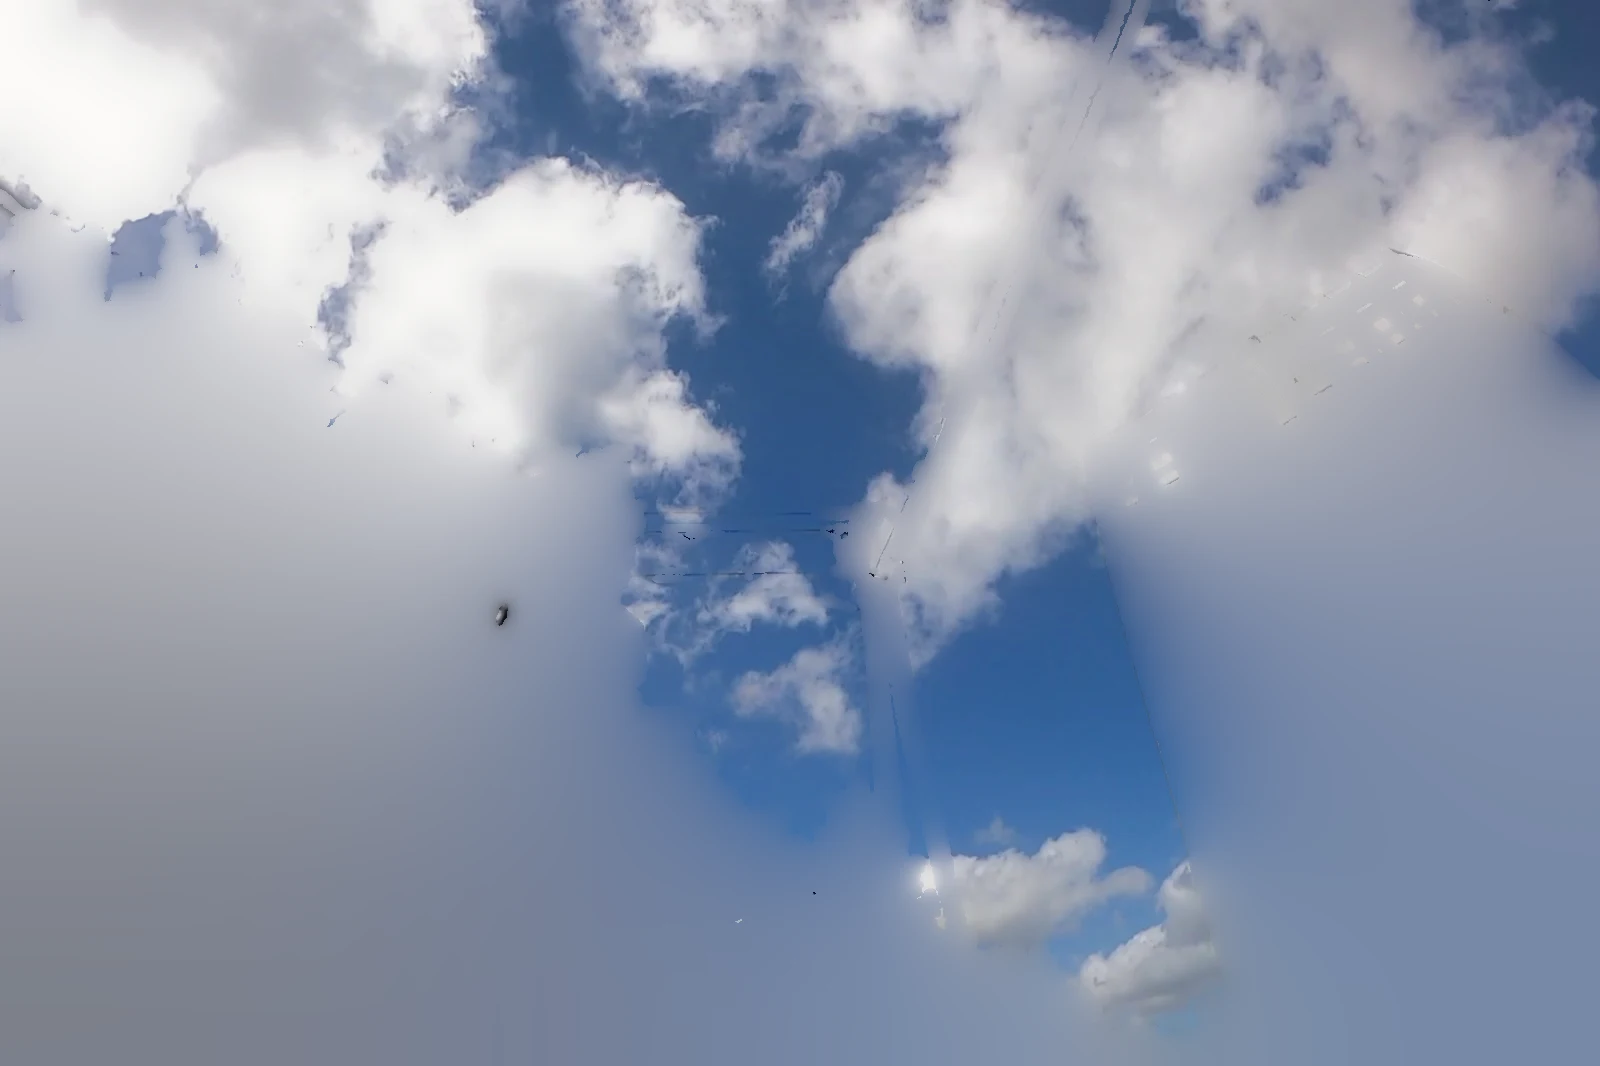
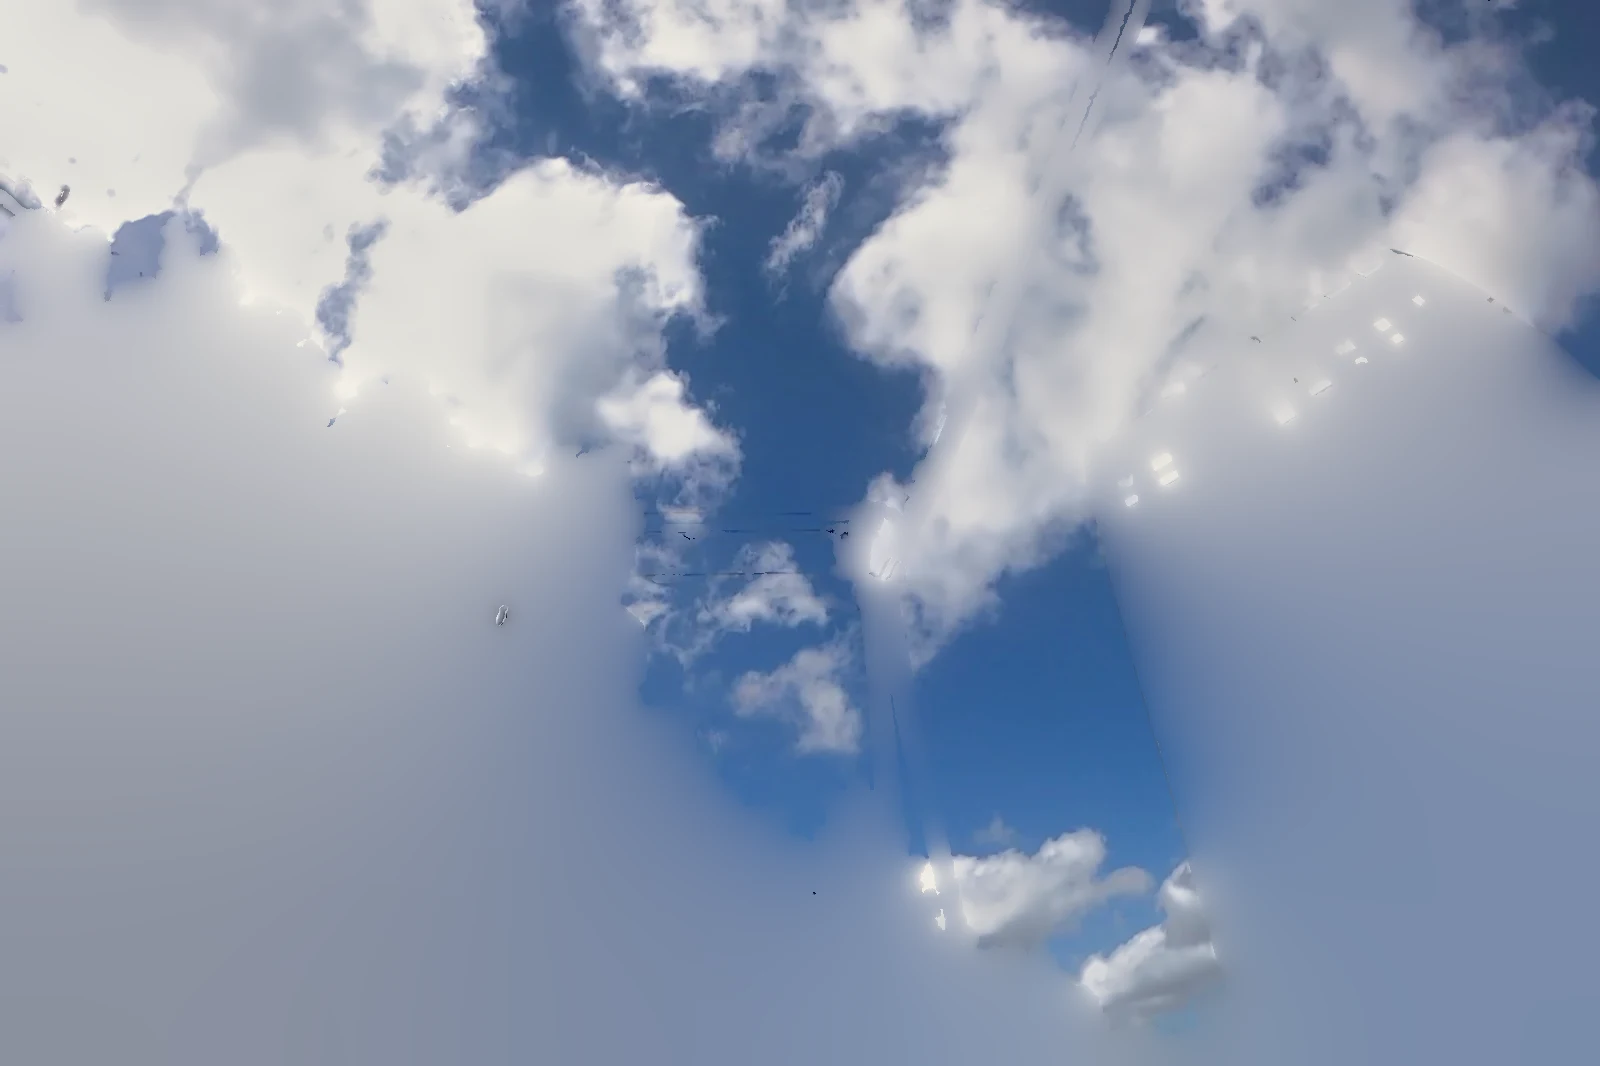
Lab: climb moment round 1
Claude-Session: https://claude.ai/code/session_01RqENhngNCzDFmJWDZueXGV

diff --git a/src/app/lab/moment/momentEngine.js b/src/app/lab/moment/momentEngine.js
@@ -334,6 +334,10 @@ void main() {
   vec3 core = vec3(1.006, 1.0, 0.978);    // sunlit top, ~(241, 240, 236)
   vec3 tint = mix(shade, body, smoothstep(0.66, 0.82, yo));
   tint = mix(tint, core, smoothstep(0.84, 0.94, yo));
+  // the sky layer carries its own split tone from the bake (warm tops,
+  // skylit undersides): most of the hue is its, the tiers only steady it
+  vec3 baked = sky / max(dot(sky, LUMA), 1e-3);
+  tint = mix(tint, baked, 0.6);
   // a little of the cloud's own colour survives, so the folds keep their drawing
   vec3 own = (col - y0) * (yo / max(y0, 1e-3));
   vec3 graded = yo * tint + own * mix(0.2, 0.15, smoothstep(0.6, 0.85, yo));

diff --git a/tools/depth/bakes/moment/sky.py b/tools/depth/bakes/moment/sky.py
@@ -1,0 +1,215 @@
+"""Moment, step 3b: the sky layer, re-baked from the clip's own frames.
+
+    python3 -I sky.py <frames dir> <work dir> <public/lab/moment>
+
+Replaces the sky layer export.py wrote (sky.webp only; every other layer is
+left as it is). The first bake took the sky from the one clean plate and
+gave each clipped cloud core a soft dome; at the page the domes read as flat
+grey-cream smears, and the birds Telea had painted out and the wires' ghosts
+showed through them as dark-blue flecks. This one goes back to the source:
+
+1. Highlight recovery. Frames 0-112 (after that he lands on the lens and the
+   GoPro's exposure moves), registered to the middle shutter frame by phase
+   correlation on the hotel facade, as plate.py does. A frame may lend a
+   pixel unless something dark passes in front of it there (him, a bird):
+   darker than 0.8 of that pixel's 85th-percentile brightness over the clip,
+   grown 4 px. Of what is left, each pixel is taken from its least-clipped
+   frames: every frame is weighted by how far its hottest channel stays
+   under 255, so where the drifting cloud let one frame see into a core
+   that frame alone speaks, and elsewhere the frames average (which also
+   takes the GoPro's noise and block edges out of the cloud), nearest the
+   shutter frames first. Exposure is locked for the whole span (the facade
+   and the open sky agree to 0.5 %), so the frames merge as they are. About
+   5 % of the sky is at 255 in every frame; those cores stay at the clip,
+   and only the shoulder below shapes them.
+
+2. Despeckle, limited to the cloud: anything darker than its 9 px median by
+   more than the noise (a bird's last trace, a wire's ghost, a JPEG block)
+   takes the median, and a guided filter on the cloud's own luminance
+   smooths the 8-bit steps the shoulder would otherwise stretch.
+
+3. Local contrast and a filmic shoulder, on the cloud only: the cloud's log
+   luminance against a ~28 px gaussian of itself (amount 0.45) puts the
+   cauliflower relief back; then a shoulder that keeps the body (linear up
+   to 0.42) and rolls everything above it off towards a warm-neutral white
+   (R >= G >= B, about 248/245/238), never pure white, so the cores glow
+   and keep their edge instead of plateauing.
+
+4. Split tone by luminance inside the cloud: the sunlit tops lean warm
+   white, the shaded undersides take the sky's own blue (hue ~205 deg,
+   desaturated, as skylight fills them), the body neutral between.
+
+5. The blue sky as export.py had it: a third of a stop down (the page
+   brings it back), deepened towards the zenith, a touch of cyan. Then the
+   sky is pushed in under everything that is not sky (push-pull), as
+   before. The sky matte is the near layer's own alpha (near.webp), so the
+   two layers still meet where they met.
+"""
+import os, shutil, sys
+import numpy as np
+import cv2
+
+sys.path.insert(0, os.path.join(os.path.dirname(os.path.abspath(__file__)), "..", ".."))
+import kit  # noqa: E402
+
+FRAMES, WORK, OUT = sys.argv[1:4]
+os.makedirs(WORK, exist_ok=True)
+CROP_H = 1066
+MID = 84
+IDS = list(range(0, 113))
+GAIN = 0.79  # a third of a stop down, in linear light (as export.py)
+LUMA = np.float32([0.2126, 0.7152, 0.0722])
+
+
+def lin(c):
+    return np.where(c <= 0.04045, c / 12.92, ((c + 0.055) / 1.055) ** 2.4).astype(np.float32)
+
+
+def enc(c):
+    c = np.clip(c, 0, 1)
+    return np.where(c <= 0.0031308, c * 12.92, 1.055 * c ** (1 / 2.4) - 0.055).astype(np.float32)
+
+
+LUT = lin(np.arange(256, dtype=np.float32) / 255)
+
+# ---------------------------------------------------------------- 1. merge
+cache = f"{WORK}/sky_merge.npz"
+if os.path.exists(cache):
+    z = np.load(cache)
+    hdr, hot = z["hdr"], z["hot"]
+else:
+    ref = cv2.imread(f"{FRAMES}/f{MID:03d}.jpg").astype(np.float32).mean(2)
+    x0, x1, y0, y1 = 1000, 1560, 300, 900
+    win = cv2.createHanningWindow((x1 - x0, y1 - y0), cv2.CV_32F)
+    stack = np.empty((len(IDS), CROP_H, 1600, 3), np.uint8)
+    for i, n in enumerate(IDS):
+        im = cv2.imread(f"{FRAMES}/f{n:03d}.jpg")
+        (dx, dy), _ = cv2.phaseCorrelate(ref[y0:y1, x0:x1], im.astype(np.float32).mean(2)[y0:y1, x0:x1], win)
+        im = cv2.warpAffine(im, np.float32([[1, 0, -dx], [0, 1, -dy]]), (im.shape[1], im.shape[0]), flags=cv2.INTER_LANCZOS4, borderMode=cv2.BORDER_REFLECT)
+        stack[i] = im[:CROP_H, :, ::-1]
+    tw = np.exp(-0.5 * ((np.float32(IDS) - MID) / 30.0) ** 2).astype(np.float32)
+    hdr = np.zeros((CROP_H, 1600, 3), np.float32)
+    hot = np.zeros((CROP_H, 1600), np.float32)
+    grow = kit.disk(4)
+    R = 82
+    for r0 in range(0, CROP_H, R):
+        s = stack[:, r0 : r0 + R]
+        L = s.astype(np.float32) @ LUMA
+        ref85 = np.percentile(L, 85, axis=0)
+        occ = L < 0.8 * ref85[None] - 12  # the -12: noise in the dark (leaves, windows) is no occluder
+        valid = np.stack([~cv2.dilate(o.astype(np.uint8), grow).astype(bool) for o in occ]).astype(np.float32)
+        mx = s.max(3).astype(np.float32) / 255
+        un = 1 - kit.smoothstep(0.9, 0.985, mx)  # how far its hottest channel stays under the clip
+        w = valid * tw[:, None, None]
+        wu = w * (un**2 + 1e-4)
+        rgb = LUT[s]
+        m = (wu[..., None] * rgb).sum(0) / np.maximum(wu.sum(0), 1e-8)[..., None]
+        # share of the frames that could see this pixel which were clipped there
+        h = 1 - (w * un).sum(0) / np.maximum(w.sum(0), 1e-6)
+        none = w.sum(0) < 1e-3  # no frame clear of him: the middle frame
+        hdr[r0 : r0 + R] = np.where(none[..., None], rgb[IDS.index(MID)], m)
+        hot[r0 : r0 + R] = np.where(none, (mx[IDS.index(MID)] > 0.985).astype(np.float32), h)
+    del stack
+    np.savez(cache, hdr=hdr, hot=hot)
+print("merged; clipped in every frame:", round(float((hot > 0.99).mean()), 4))
+
+# ---------------------------------------------------------------- the sky matte
+na = cv2.imread(f"{OUT}/near.webp", cv2.IMREAD_UNCHANGED)
+alpha = na[..., 3].astype(np.float32) / 255
+skym = 1 - alpha
+clear = (skym > 0.97) & ~kit.dilate(skym < 0.97, 3)
+
+# ---------------------------------------------------------------- 2. the cloud, despeckled
+g = hdr * GAIN
+Y = g @ LUMA
+mx, mn = g.max(2), g.min(2)
+chroma = (mx - mn) / np.maximum(mx, 1e-4)
+# cloud: bright and nearly neutral; a soft key so the skirt where cloud
+# thins to blue takes part of every step below
+cloud = (1 - kit.smoothstep(0.16, 0.34, chroma)) * kit.smoothstep(0.12, 0.26, Y)
+cloud = kit.blur(cloud.astype(np.float32), 1.5)
+cm = cloud > 0.05
+Y8 = np.clip(enc(Y) * 255, 0, 255).astype(np.uint8)
+med = cv2.medianBlur(Y8, 9).astype(np.float32) / 255
+spk = (enc(Y) < med - 0.035) & cm
+spk = kit.dilate(spk, 1) & cm
+gm = cv2.medianBlur(np.clip(enc(g) * 255, 0, 255).astype(np.uint8), 9).astype(np.float32) / 255
+g = np.where(spk[..., None], lin(gm), g)
+# guided smoothing of the cloud's colour on its own luminance: keeps every
+# edge of the relief, loses the 8-bit steps and the block chroma
+sm = kit.guided(np.repeat(enc(g @ LUMA)[..., None], 3, -1), enc(g), 4, 2e-4)
+g = np.where(cm[..., None], lin(np.clip(sm, 0, 1)) * cloud[..., None] + g * (1 - cloud[..., None]), g)
+print("despeckled px", int(spk.sum()))
+
+# ---------------------------------------------------------------- 3. local contrast + shoulder
+Y = np.maximum(g @ LUMA, 1e-5)
+lY = np.log2(Y)
+base = kit.blur(lY.astype(np.float32), 28)
+lY2 = lY + 0.7 * cloud * np.clip(lY - base, -1.2, 1.2)
+EXPO = 1.0  # the page's own cloud pass lifts the body; the bake leaves it room
+Yc = (2.0**lY2) * EXPO
+KNEE, WHITE = 0.42, 0.93  # linear: body kept below the knee; ceiling ~ 248 display
+
+
+def shoulder(y):
+    s = WHITE - KNEE
+    return np.where(y < KNEE, y, KNEE + s * (1 - np.exp(-(y - KNEE) / s)))
+
+
+Yo = shoulder(Yc)
+# hot cores (clipped in every frame) lift a little more inside their edge,
+# by distance, so they are the brightest thing in the cloud without a plateau
+core = (hot > 0.97).astype(np.uint8)
+dist = cv2.distanceTransform(core, cv2.DIST_L2, 5)
+lift = kit.blur((1 - np.exp(-dist / 40.0)).astype(np.float32), 4)
+Yo = Yo + (WHITE - Yo) * 0.3 * lift
+ratio = (Yo / Y)[..., None]
+cl = g * ratio
+# toward the top the colour rolls to warm-neutral (sunlit), not to the
+# cool grey a clip leaves
+top = kit.smoothstep(0.5, 0.9, Yo)[..., None]
+warm = np.float32([1.012, 1.0, 0.965])
+cl = cl * (1 - top) + Yo[..., None] * warm * top
+
+# ---------------------------------------------------------------- 4. split tone
+# relative to the cloud's own neighbourhood and its absolute level: the
+# shaded folds and undersides take skylight blue, the tops warm white
+Yd = enc(Yo)
+loc = kit.blur(Yd.astype(np.float32), 22)
+shade = np.clip(kit.smoothstep(0.8, 0.56, Yd) * 0.8 + np.clip((loc - Yd) * 5, 0, 1) * 0.4, 0, 1)
+sun = kit.smoothstep(0.8, 0.93, Yd)
+blue = np.float32([0.85, 1.01, 1.13])  # ~ hue 205, as a ratio to luminance
+tone = 1 + shade[..., None] * (blue - 1) * 0.85 + sun[..., None] * (np.float32([1.02, 1.0, 0.96]) - 1)
+cl = cl / np.maximum(cl @ LUMA, 1e-5)[..., None] * Yo[..., None] * tone
+g = cl * cloud[..., None] + g * (1 - cloud[..., None])
+
+# ---------------------------------------------------------------- 5. blue sky, as export.py
+e = enc(g)
+mx, mn = e.max(2), e.min(2)
+H = e.shape[0]
+bl = kit.smoothstep(0.25, 0.55, (mx - mn) / (mx + 1e-4)) * (e[..., 2] > e[..., 0] + 0.08)
+yy = np.linspace(0, 1, H, dtype=np.float32)[:, None]
+deep = 1 - bl * (0.3 * (1 - yy) ** 1.5)
+tint = 1 + bl[..., None] * np.float32([0.0, 0.06, -0.02])
+g = g * deep[..., None] * tint
+
+# open blue sky keeps the first bake's pixels (the clean plate, where YOLO
+# boxes said which frame may lend which pixel; his arm against the blue is
+# no darker than the blue, so the brightness test above cannot find it
+# there); the cloud, and a few px round it, is the new one
+first = f"{WORK}/sky_export.webp"
+if not os.path.exists(first):
+    shutil.copy(f"{OUT}/sky.webp", first)
+old = lin(cv2.imread(first)[:, :, ::-1].astype(np.float32) / 255)
+rep = kit.blur(kit.dilate(cloud > 0.25, 5).astype(np.float32), 3)
+rep = np.maximum(rep, cloud)[..., None]
+g = g * rep + old * (1 - rep)
+
+w = kit.erode(clear, 2).astype(np.float32)
+sky = kit.pushpull(g, w)
+sky = np.where(clear[..., None], g, sky)
+out = np.clip(np.round(enc(sky) * 255), 0, 255).astype(np.uint8)[:, :, ::-1]
+cv2.imwrite(f"{OUT}/sky.webp", out, [cv2.IMWRITE_WEBP_QUALITY, 88])
+c = enc(sky)[clear & (cloud > 0.5)]
+print("cloud display p50/p90/p99.9 luma", np.percentile(c @ LUMA, [50, 90, 99.9]).round(3), "max channel", c.max().round(3))
+print("sky.webp", os.path.getsize(f"{OUT}/sky.webp") // 1024, "KB")

diff --git a/tools/depth/bakes/moment/export.py b/tools/depth/bakes/moment/export.py
@@ -9,7 +9,8 @@ MoGe-2 metric depth and camera), stab/f078.png f090.png (the two shutter
 frames, registered), sam/m078.png m090.png (SAM 2.1 mattes), flowAB.npy /
 flowBA.npy (chained DIS flow).
 
-Layers, back to front:
+Layers, back to front (sky.py then re-bakes sky.webp from the source
+frames, keeping this one's open blue sky; run it after this step):
   sky.webp     the sky alone, opaque; under the tree, the post and the hotel
                it is the sky pushed in from around them (push-pull), which is
                all a few degrees of orbit ever uncovers.
